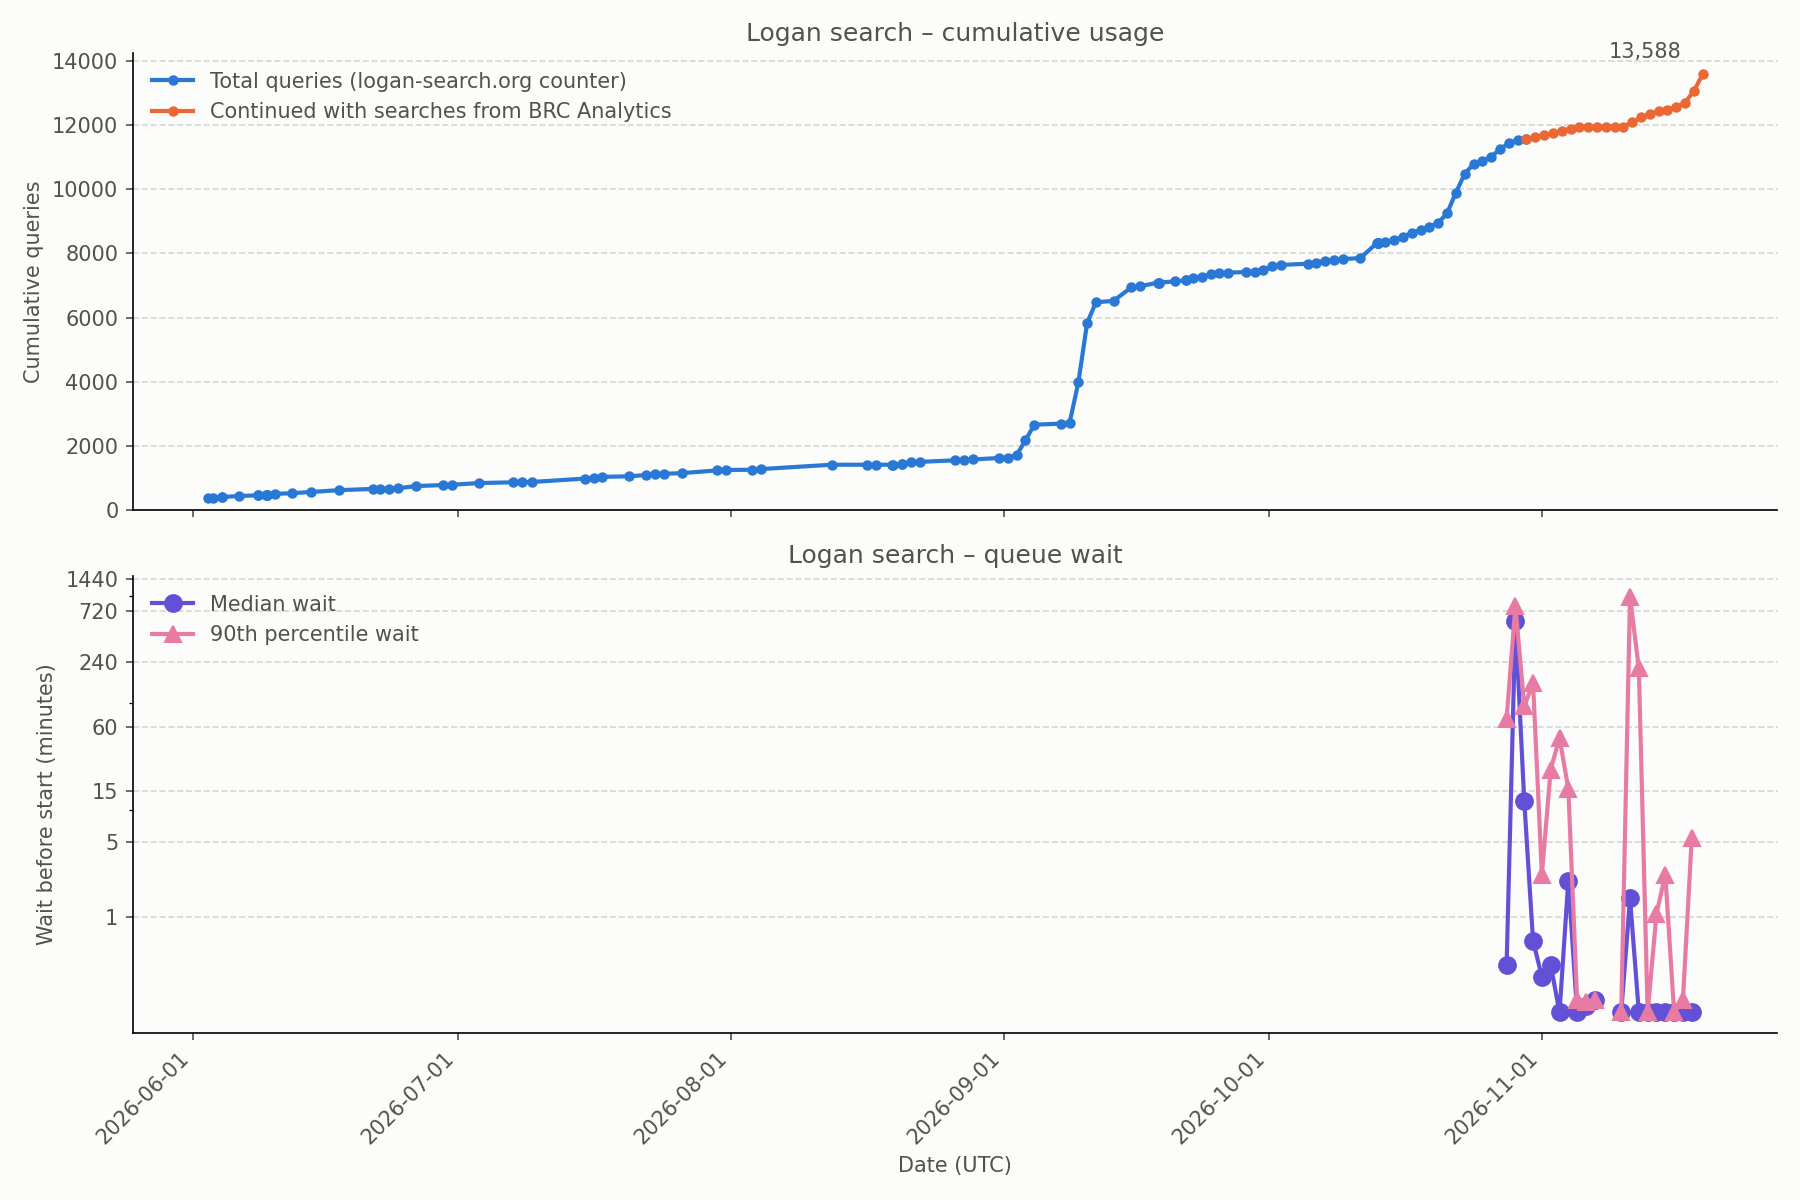
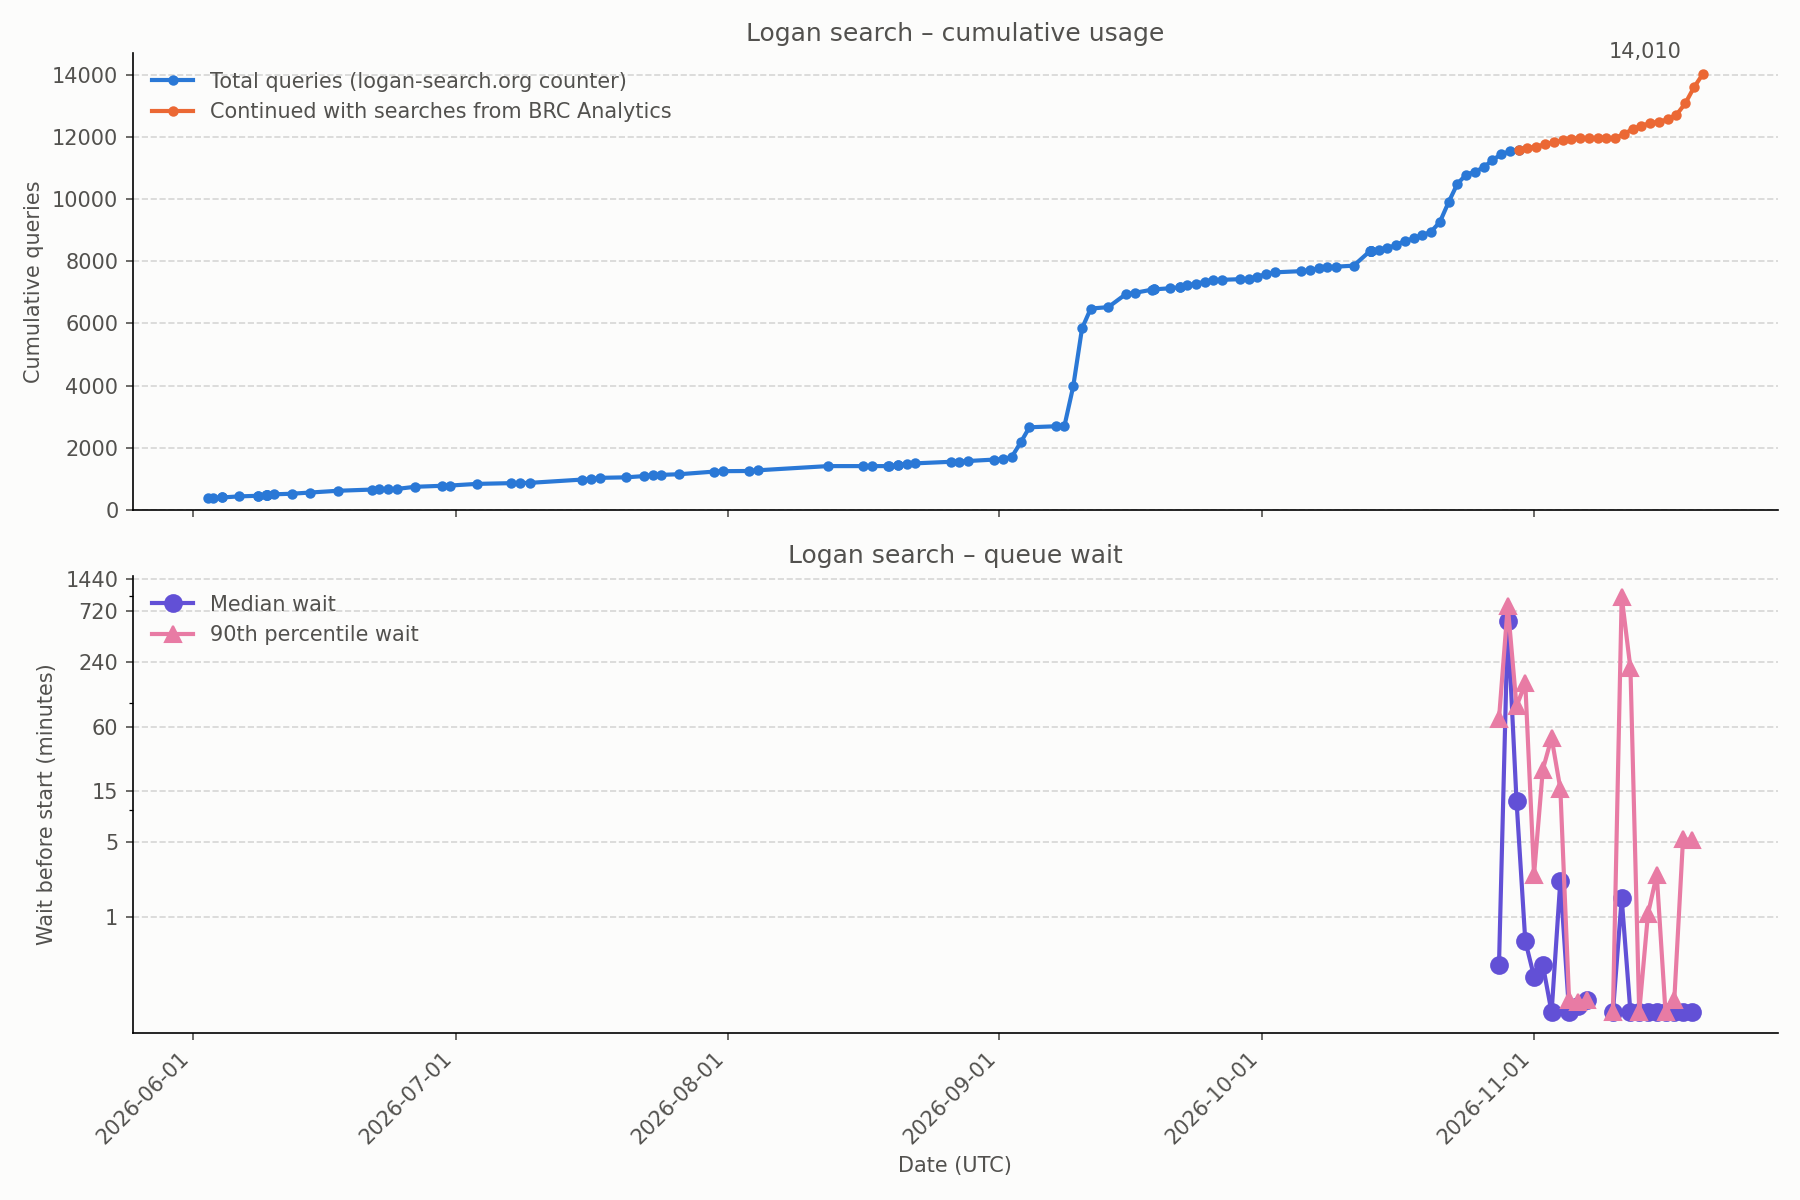
Update statistics 2026-11-20

diff --git a/README.md b/README.md
@@ -5,8 +5,8 @@ Usage statistics of [Logan Search](https://logan-search.org), updated once a day
 ## Yesterday
 
 <!-- daily-queries:start -->
-**Queries on 2026-11-18 (UTC): 368** on the backend (BRC Analytics history).
-The logan-search.org counter increased by 515 between 2026-11-18 06:00 and 2026-11-19 06:00 UTC.
+**Queries on 2026-11-19 (UTC): 530** on the backend (BRC Analytics history).
+The logan-search.org counter increased by 437 between 2026-11-19 06:00 and 2026-11-20 06:00 UTC.
 <!-- daily-queries:end -->
 
 ## Queries made on logan-search.org
